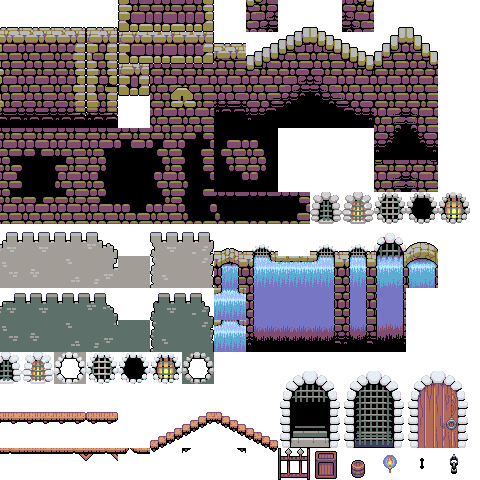
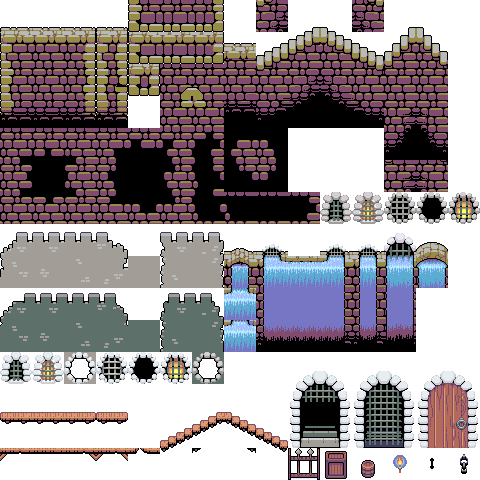
some fixes, with simple bg, and luminous tile for castle

diff --git a/js/ParallaxBackground.js b/js/ParallaxBackground.js
@@ -4,27 +4,27 @@ class ParallaxBackground{
         this.map = map;
 
         this.speed = {
-            background1: 1.6,
-            background2: 1.3,
-            background3: 0.9,
+            background: 0.5,
+            // background2: 1.3,
+            // background3: 0.9,
         }
     }
     create(){
-        this.Phaser.background1 = this.Phaser.add.tileSprite(400, 300, this.map.widthInPixels*2, 600, 'background-1').setDepth(-5);
-        this.Phaser.background2 = this.Phaser.add.tileSprite(400, 300, this.map.widthInPixels*2, 600, 'background-2').setDepth(-5);
-        this.Phaser.background3 = this.Phaser.add.tileSprite(400, 300, this.map.widthInPixels*2, 600, 'background-3').setDepth(-5);
+         this.Phaser.background = this.Phaser.add.tileSprite(400, 300, this.map.widthInPixels*2, 600, 'background').setDepth(-5);
+        // this.Phaser.background2 = this.Phaser.add.tileSprite(400, 300, this.map.widthInPixels*2, 600, 'background-2').setDepth(-5);
+        // this.Phaser.background3 = this.Phaser.add.tileSprite(400, 300, this.map.widthInPixels*2, 600, 'background-3').setDepth(-5);
     }
     update(){
 
     }
     tileLeft(){
-        this.Phaser.background1.tilePositionX -= this.speed.background1;
-        this.Phaser.background2.tilePositionX -= this.speed.background2;
-        this.Phaser.background3.tilePositionX -= this.speed.background3;
+        this.Phaser.background.tilePositionX -= this.speed.background;
+        // this.Phaser.background2.tilePositionX -= this.speed.background2;
+        // this.Phaser.background3.tilePositionX -= this.speed.background3;
     }
     tileRight(){
-        this.Phaser.background1.tilePositionX += this.speed.background1;
-        this.Phaser.background2.tilePositionX += this.speed.background2;
-        this.Phaser.background3.tilePositionX += this.speed.background3;
+        this.Phaser.background.tilePositionX += this.speed.background;
+        // this.Phaser.background2.tilePositionX += this.speed.background2;
+        // this.Phaser.background3.tilePositionX += this.speed.background3;
     }
 }

diff --git a/js/game.js b/js/game.js
@@ -75,9 +75,9 @@ function preload ()
     this.load.image("cross", "assets/cross.png");
     this.load.image("tiles", "assets/map/tile_castle.png");
     this.load.image("tiles_grey", "assets/map/tile_castle_grey.png");
-    this.load.image("background-1", "assets/background/background-1.png");
-    this.load.image("background-2", "assets/background/background-2.png");
-    this.load.image("background-3", "assets/background/background-3.png");
+    this.load.image("background", "assets/background/background.png");
+    // this.load.image("background-2", "assets/background/background-2.png");
+    // this.load.image("background-3", "assets/background/background-3.png");
 
     this.load.tilemapTiledJSON("map", "assets/map/map800.json");
 
